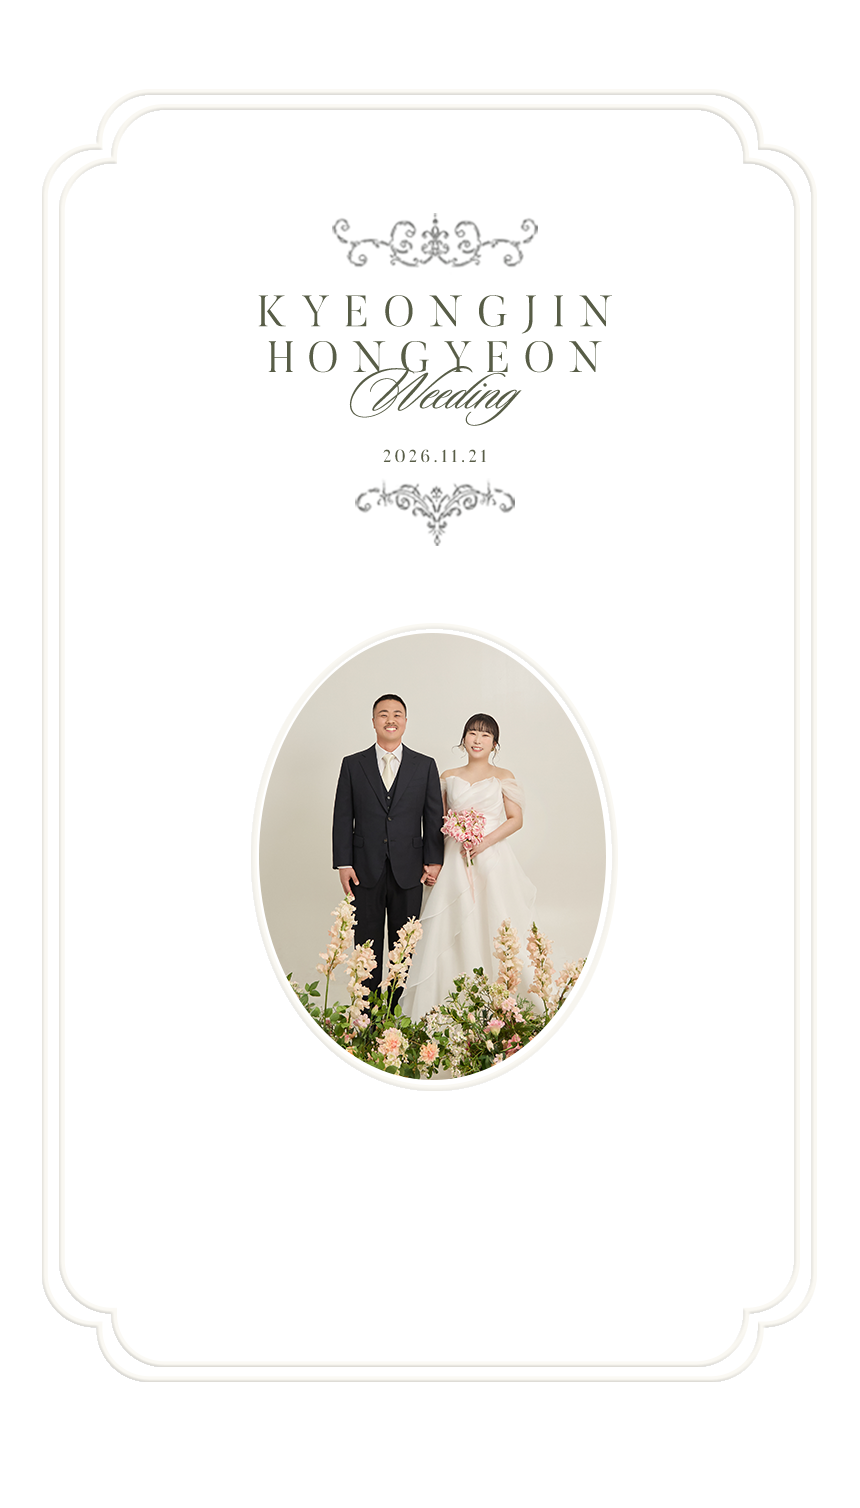
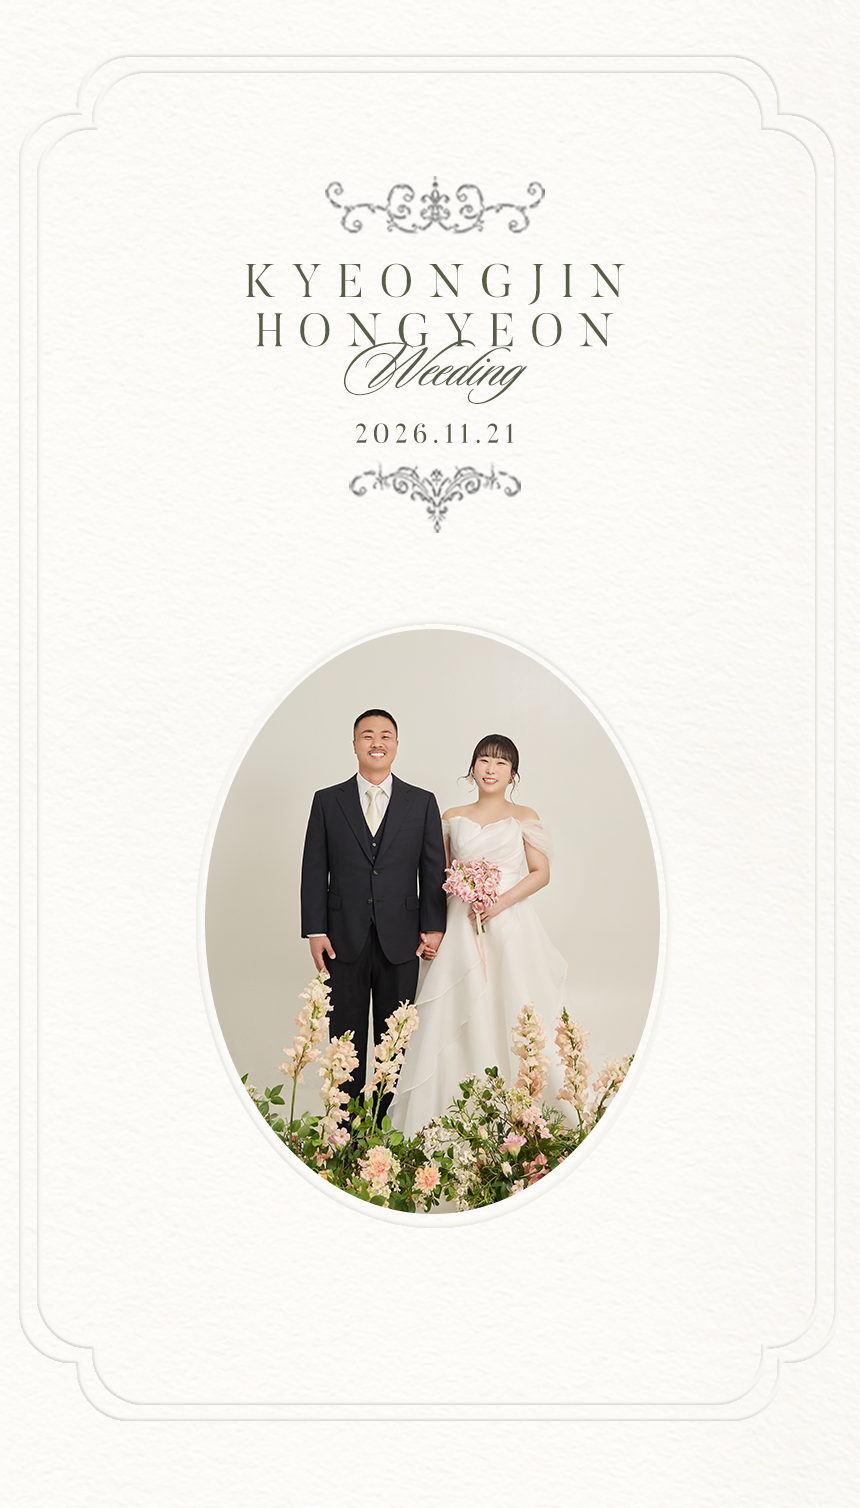
청첩장 수정

diff --git a/index.html b/index.html
@@ -16,7 +16,9 @@ Kakao.init("3fc477a2de7052bb8c3cbafdd8e1f779");
 <style>
 *{box-sizing:border-box}
 html,body{margin:0;padding:0}
-html{scroll-behavior:smooth}
+html{
+    scroll-behavior:auto;
+}
 body{
     background-color:#f4f0e7;
     background-image:url("images/main/paper-texture.jpg");
@@ -534,27 +536,7 @@ button,input,textarea,a,
     width:min(100%,600px);
     margin:22px auto 0;
 }
-.location-links{
-    display:grid;
-    grid-template-columns:repeat(3,1fr);
-    gap:8px;
-    width:min(100%,600px);
-    margin:0 auto;
-}
-.location-link{
-    display:flex;
-    align-items:center;
-    justify-content:center;
-    min-height:38px;
-    border:0;
-    border-radius:9px;
-    background:#fff;
-    color:#575249;
-    text-decoration:none;
-    font-size:16px;
-    line-height:1;
-    box-shadow:var(--shadow);
-}
+
 .location-map-button{
     width:100%;
     min-height:46px;
@@ -564,6 +546,48 @@ button,input,textarea,a,
     color:var(--green);
     font-size:18px;
     box-shadow:var(--shadow);
+    display:flex;
+    align-items:center;
+    justify-content:center;
+    gap:8px;
+}
+
+.location-map-button img{
+    width:24px;
+    height:24px;
+    object-fit:contain;
+    display:block;
+}
+
+.location-links{
+    display:grid;
+    grid-template-columns:repeat(3,1fr);
+    gap:8px;
+    width:min(100%,600px);
+    margin:0 auto;
+}
+
+.location-link{
+    display:flex;
+    align-items:center;
+    justify-content:center;
+    gap:6px;
+    min-height:46px;
+    border:0;
+    border-radius:9px;
+    background:#fff;
+    color:#575249;
+    text-decoration:none;
+    font-size:16px;
+    line-height:1;
+    box-shadow:var(--shadow);
+}
+
+.location-link img{
+    width:24px;
+    height:24px;
+    object-fit:contain;
+    display:block;
 }
 .transport-accordion{
     width:min(100%,600px);
@@ -668,7 +692,7 @@ button,input,textarea,a,
 }
 .guestbook-header{margin-bottom:29px}
 .guestbook-description{
-    margin:30px 0 0;
+    margin:50px 0 60px;
     font-size:18px;
     line-height:1.45;
     color:#555047;
@@ -685,10 +709,13 @@ button,input,textarea,a,
     line-height:1;
 }
 .guestbook-write-button{
-    width:170px;height:48px;
+    width:170px;
+    height:48px;
     padding:0 22px;
     margin-top:0;
+    font-family:"Gowun Batang",serif;
     font-size:16px;
+    font-weight:400;
 }
 .guestbook-written-screen{
     width:min(100%,600px);
@@ -1320,8 +1347,11 @@ button,input,textarea,a,
     </div>
 
     <div class="location-map-button-wrap">
-        <button type="button" class="location-map-button" id="locationMapButton">약도 이미지 보기</button>
-    </div>
+    <button type="button" class="location-map-button" id="locationMapButton">
+        <img src="images/location/map-icon.png" alt="">
+        <span>약도 이미지 보기</span>
+    </button>
+</div>
 
     <div class="navigation-copy">
         <h3>내비게이션</h3>
@@ -1329,10 +1359,21 @@ button,input,textarea,a,
     </div>
 
     <div class="location-links">
-        <a href="https://map.naver.com/p/entry/place/11872992" class="location-link" target="_blank" rel="noopener">네이버지도</a>
-        <a href="https://tmap.life/674d14ec" class="location-link" target="_blank" rel="noopener">티맵</a>
-        <a href="https://map.kakao.com/?itemId=936406406" class="location-link" target="_blank" rel="noopener">카카오맵</a>
-    </div>
+    <a href="https://map.naver.com/p/entry/place/11872992" class="location-link" target="_blank" rel="noopener">
+        <img src="images/location/naver.png" alt="">
+        <span>네이버지도</span>
+    </a>
+
+    <a href="https://tmap.life/674d14ec" class="location-link" target="_blank" rel="noopener">
+        <img src="images/location/tmap.png" alt="">
+        <span>티맵</span>
+    </a>
+
+    <a href="https://map.kakao.com/?itemId=936406406" class="location-link" target="_blank" rel="noopener">
+        <img src="images/location/kakaomap.png" alt="">
+        <span>카카오맵</span>
+    </a>
+</div>
 
     <div class="transport-accordion">
         <div class="transport-box">
@@ -1702,19 +1743,39 @@ new daum.roughmap.Lander({"timestamp":"1788964418676","key":"ufndrmcnn33","mapWi
 
 <script>
 /* ==================================================
-   인트로 — 기존 동작 유지
+   인트로
 ================================================== */
 const intro=document.getElementById("intro");
 const introLayers=document.querySelectorAll(".intro-layer");
+
 window.addEventListener("load",()=>{
-    introLayers.forEach((layer,index)=>setTimeout(()=>layer.classList.add("show"),300+(index*350)));
-});
-intro.addEventListener("click",()=>{
-    window.scrollTo(0,0);
-    intro.classList.add("hide");
-    document.body.style.overflow="";
+    introLayers.forEach((layer,index)=>{
+        setTimeout(()=>{
+            layer.classList.add("show");
+        },300+(index*350));
+    });
 });
 
+intro.addEventListener("click",()=>{
+
+    /* 먼저 스크롤 위치를 맨 위로 고정 */
+    document.documentElement.scrollTop=0;
+    document.body.scrollTop=0;
+
+    /* 인트로 숨기기 */
+    intro.classList.add("hide");
+
+    /* 스크롤 잠금 해제 */
+    document.body.style.overflow="";
+
+    /* 인트로가 사라진 뒤에도 맨 위 유지 */
+    requestAnimationFrame(()=>{
+        window.scrollTo(0,0);
+        document.documentElement.scrollTop=0;
+        document.body.scrollTop=0;
+    });
+
+});
 /* ==================================================
    스크롤 등장 / 사라짐
 ================================================== */
@@ -2052,85 +2113,42 @@ let pointerStartY=0;
 let pointerActive=false;
 
 gallerySlider.addEventListener("pointerdown",e=>{
-
-    if(
-        e.pointerType==="mouse" &&
-        e.button!==0
-    ){
-        return;
-    }
-
-    if(galleryAnimating){
-        return;
-    }
+    if(e.pointerType==="mouse"&&e.button!==0)return;
+    if(galleryAnimating)return;
 
     pointerStartX=e.clientX;
     pointerStartY=e.clientY;
-
     pointerActive=true;
-
     galleryDidSwipe=false;
 
     try{
         gallerySlider.setPointerCapture(e.pointerId);
     }catch(err){}
-
 });
-
 
 gallerySlider.addEventListener("pointerup",e=>{
-
-    if(!pointerActive){
-        return;
-    }
+    if(!pointerActive)return;
 
     pointerActive=false;
 
-    const dx=
-        e.clientX-pointerStartX;
+    const dx=e.clientX-pointerStartX;
+    const dy=e.clientY-pointerStartY;
 
-    const dy=
-        e.clientY-pointerStartY;
+    /* 가로 스와이프만 인식 */
+    if(Math.abs(dx)<15)return;
+    if(Math.abs(dx)<=Math.abs(dy))return;
 
-
-    /*
-       가로 스와이프인지 확인
-    */
-    if(
-        Math.abs(dx)<30 ||
-        Math.abs(dx)<=Math.abs(dy)
-    ){
-        return;
-    }
-
-
-    /*
-       스와이프가 발생했다는 표시
-       사진 클릭으로 잘못 인식되지 않게 함
-    */
     galleryDidSwipe=true;
 
-
-    /*
-       왼쪽으로 밀면 다음 사진
-       오른쪽으로 밀면 이전 사진
-    */
     if(dx<0){
-
         goGallery(1);
-
     }else{
-
         goGallery(-1);
     }
-
 });
 
-
 gallerySlider.addEventListener("pointercancel",()=>{
-
     pointerActive=false;
-
 });
 
 
